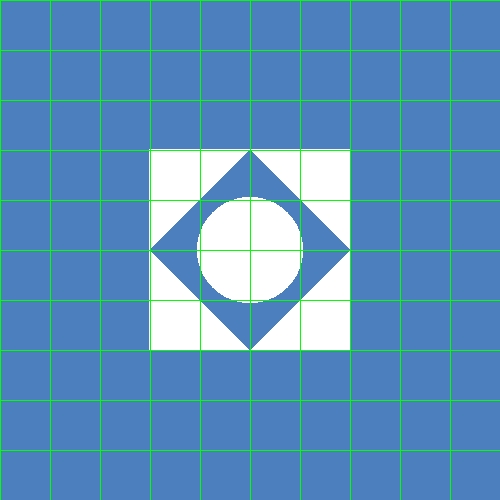
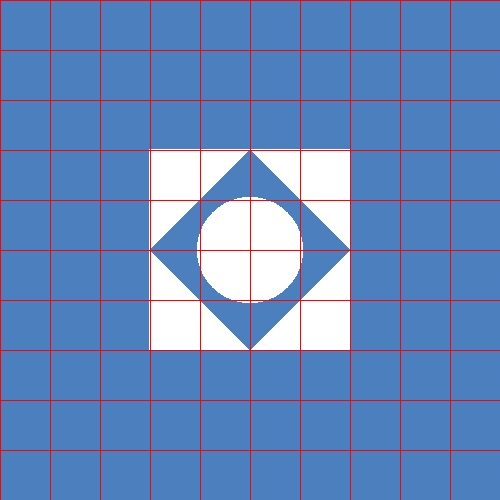
abc

Changed region(s): [[0.0, 0.0, 1.0, 1.0]]

diff --git a/tar1_primitives/src/renderer/Render.java b/tar1_primitives/src/renderer/Render.java
@@ -56,7 +56,11 @@ public class Render {
 		for (int i = 0; i < _imageWriter.getNx(); i += _imageWriter.getNx() / size) {
 			for (int j = 0; j < _imageWriter.getNy(); ++j) {
 				_imageWriter.writePixel(i, j, _color);
-				_imageWriter.writePixel(j, i, _color);
+			}
+		}
+		for (int j = 0; j < _imageWriter.getNy(); j += _imageWriter.getNy() / size) {
+			for (int i = 0; i < _imageWriter.getNx(); ++i) {
+				_imageWriter.writePixel(i, j, _color);
 			}
 		}
 	}

diff --git a/tar1_primitives/src/unittests/RenderTest.java b/tar1_primitives/src/unittests/RenderTest.java
@@ -38,7 +38,7 @@ public class RenderTest extends TestCase {
 		ImageWriter im = new ImageWriter("sim", 500, 500, 500, 500);
 		Render ren = new Render(scene, im);
 		ren.renderImage();
-		ren.printGrid(10, java.awt.Color.green);
+		ren.printGrid(10, java.awt.Color.red);
 		ren.get_imageWriter().writeToimage();
 	}
 
